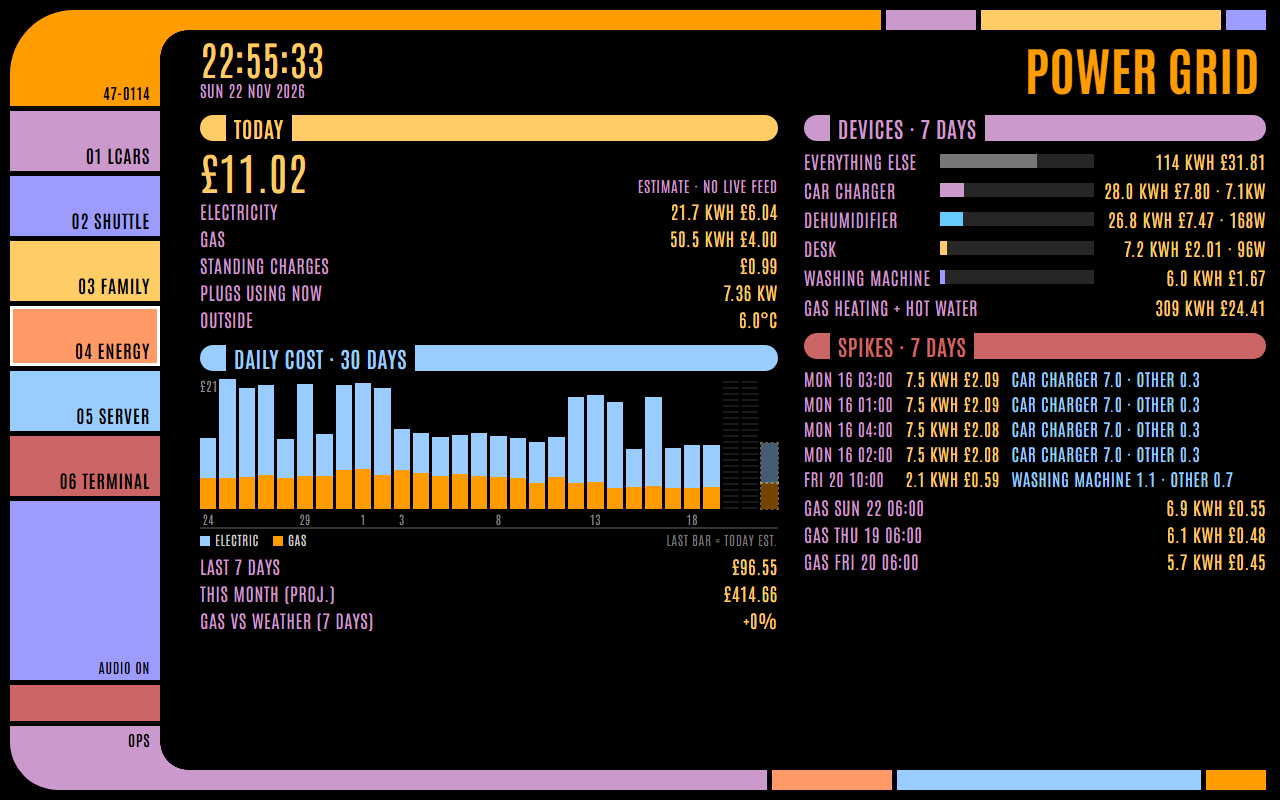
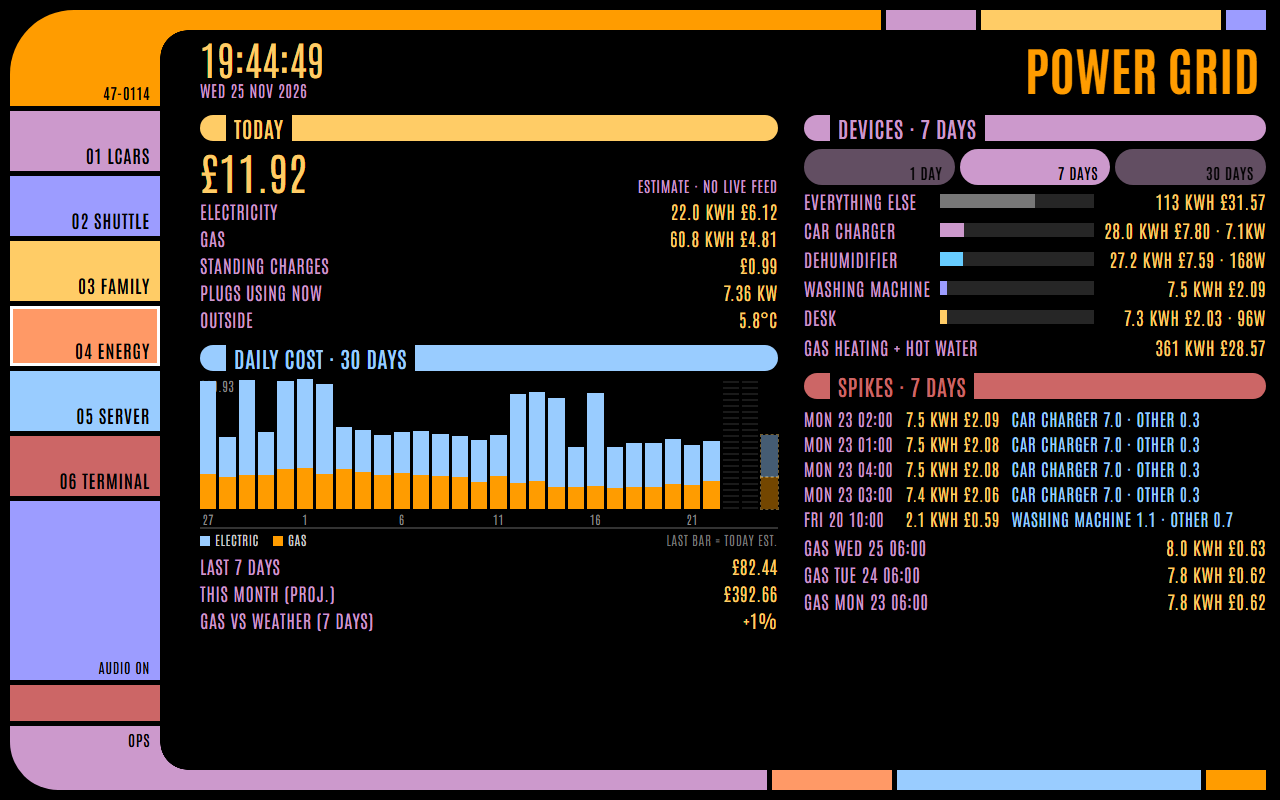
LCARS demo: devices breakdown over 1, 7 or 30 days

diff --git a/lcars/tablet-panels.js b/lcars/tablet-panels.js
@@ -72,7 +72,8 @@ function tpSave(key, on) {
 // Electricity "today" = Home Mini live total when it reports, otherwise the typical hourly
 // profile (last 14 days, without lumpy loads such as the car) plus what the lumpy plugs
 // actually used today. Gas "today" = a straight-line fit of daily gas against outdoor temperature.
-function tpEnergyModel(cfg, day, hour, states, now) {
+// devDays: window for the Devices breakdown (1, 7 or 30 days, default 7).
+function tpEnergyModel(cfg, day, hour, states, now, devDays) {
   var num = function (id) { var s = id && states[id]; var v = s ? parseFloat(s.state) : NaN; return isNaN(v) ? null : v; };
   var ms = function (x) { return typeof x.start === 'number' ? x.start : Date.parse(x.start); };
   var dkey = function (t) { var d = new Date(t); return d.getFullYear() + '-' + (d.getMonth() + 1) + '-' + d.getDate(); };
@@ -115,14 +116,25 @@ function tpEnergyModel(cfg, day, hour, states, now) {
     return { name: d.name, color: d.color, lumpy: !!d.lumpy, ser: ser, nowW: p == null ? null : p * (d.kw ? 1000 : 1) };
   });
   var weekStart = now.getTime() - 7 * 864e5, typStart = now.getTime() - 14 * 864e5;
+  devDays = devDays || 7;
+  var devStart = now.getTime() - devDays * 864e5;
 
   var houseWeek = 0, houseHours = [];
   Object.keys(houseE).forEach(function (t) { if (+t >= weekStart) { houseWeek += houseE[t]; houseHours.push(+t); } });
+
+  // Devices over the chosen window. The plugs are current; Octopus (house total, gas) runs a day
+  // or more behind, so "Everything else" only counts hours that Octopus has reported.
+  var houseDev = 0, houseDevHours = 0, houseLast = null;
+  Object.keys(houseE).forEach(function (t) {
+    if (+t < devStart) return;
+    houseDev += houseE[t]; houseDevHours++;
+    if (houseLast == null || +t > houseLast) houseLast = +t;
+  });
   var metered = 0;
   var devices = devs.map(function (d) {
     var k = 0, peak = null, inHouse = 0;
     Object.keys(d.ser).forEach(function (t) {
-      if (+t < weekStart) return;
+      if (+t < devStart) return;
       k += d.ser[t];
       if (houseE[t] != null) inHouse += d.ser[t];
       if (!peak || d.ser[t] > peak.kwh) peak = { at: +t, kwh: d.ser[t] };
@@ -130,9 +142,18 @@ function tpEnergyModel(cfg, day, hour, states, now) {
     metered += inHouse;
     return { name: d.name, color: d.color, kwh: k, cost: k * rateE, peak: peak, nowW: d.nowW };
   });
-  devices.push({ name: 'Everything else', color: '#777', kwh: Math.max(0, houseWeek - metered), cost: Math.max(0, houseWeek - metered) * rateE, nowW: null });
-  devices.sort(function (a, b) { return b.kwh - a.kwh; });
-  var gasWeek = 0; Object.keys(houseG).forEach(function (t) { if (+t >= weekStart) gasWeek += houseG[t]; });
+  // Too little of the window reported (typical for the 24-hour view): don't show a misleading figure.
+  var houseKnown = houseDevHours >= devDays * 12;
+  devices.push({ name: 'Everything else', color: '#777', rest: true, unknown: !houseKnown,
+    kwh: houseKnown ? Math.max(0, houseDev - metered) : null, cost: houseKnown ? Math.max(0, houseDev - metered) * rateE : null, nowW: null });
+  devices.sort(function (a, b) { return (b.kwh || 0) - (a.kwh || 0); });
+  var gasDev = 0, gasDevHours = 0, gasLast = null;
+  Object.keys(houseG).forEach(function (t) {
+    if (+t < devStart) return;
+    gasDev += houseG[t]; gasDevHours++;
+    if (gasLast == null || +t > gasLast) gasLast = +t;
+  });
+  var devTotal = 0; devices.forEach(function (d) { devTotal += d.kwh || 0; });
 
   // Spikes: whole-house hours well above the usual hour, split by metered device.
   var vals = houseHours.map(function (t) { return houseE[t]; }).sort(function (a, b) { return a - b; });
@@ -203,7 +224,9 @@ function tpEnergyModel(cfg, day, hour, states, now) {
   return {
     today: { live: liveEK != null || liveGK != null, elecKwh: elecKwh, elecCost: elecCost, gasKwh: gasKwh, gasCost: gasCost, standing: standing, total: total },
     daily: daily, week: last7.length ? week : null, monthProj: monthProj, gasVs: gasVs,
-    devices: devices, houseWeek: houseWeek, gasWeek: gasWeek, gasWeekCost: gasWeek * rateG,
+    devices: devices, devDays: devDays, devTotal: devTotal, houseWeek: houseWeek,
+    houseLast: houseLast, houseBehind: houseLast == null || now.getTime() - houseLast > 3 * 36e5,
+    gasDev: gasDevHours >= devDays * 12 ? gasDev : null, gasDevCost: gasDevHours >= devDays * 12 ? gasDev * rateG : null, gasLast: gasLast,
     spikes: spikes, gasSpikes: gasSpikes, nowW: demand != null ? demand : meteredNow, nowLive: demand != null,
     tempNow: tempNow, fit: { a: fitA, b: fitB, n: pts.length }, rateE: rateE, rateG: rateG,
   };
@@ -735,6 +758,7 @@ button:active { filter:brightness(1.35); }
 .dep .b:first-child { border-radius:20px 0 0 20px; } .dep .b:last-child { border-radius:0 20px 20px 0; }
 .carpg { grid-template-columns:1fr 1fr; }
 .kv .v.hi { color:#99ff99; }
+.kv .v.dim, .bars .v.dim { color:#888; }
 .bars { display:grid; grid-template-columns:auto 1fr auto; gap:5px 10px; align-items:center; font-size:18px; margin:4px 0 6px; }
 .bars .k { color:#cc99cc; white-space:nowrap; } .bars .v { color:#ffcc66; text-align:right; white-space:nowrap; font-variant-numeric:tabular-nums; }
 .mbar { display:block; height:14px; background:#262626; position:relative; }
@@ -912,6 +936,15 @@ class LcarsPanelCard extends TabletPanelBase {
 
   _ui(what) {
     if (what.indexOf('car:') === 0) { this._carAction(what.split(':')[1], what.split(':')[2]); return; }
+    if (what.indexOf('en:days:') === 0) {
+      var nd = +what.split(':')[2];
+      if ([1, 7, 30].indexOf(nd) < 0 || nd === this._enDays()) return;
+      this._enDaysV = nd;
+      try { localStorage.setItem('tp-en-days', String(nd)); } catch (e) { /* no storage */ }
+      if (this._audioOn) tpAudio.seq(LCARS_SFX.tap, 'triangle', 0.2);
+      this._render();
+      return;
+    }
     if (what.indexOf('fam:') === 0) {
       var fp = this._famPeople()[+what.split(':')[2]];
       if (!fp) return;
@@ -1181,6 +1214,16 @@ class LcarsPanelCard extends TabletPanelBase {
     return ids.filter(Boolean);
   }
 
+  // Devices window in days (1, 7 or 30), remembered per tablet.
+  _enDays() {
+    if (!this._enDaysV) {
+      var v = 7;
+      try { v = +localStorage.getItem('tp-en-days') || 7; } catch (e) { /* no storage */ }
+      this._enDaysV = [1, 7, 30].indexOf(v) >= 0 ? v : 7;
+    }
+    return this._enDaysV;
+  }
+
   _fetchEnergy() {
     var e = this._config.energy, self = this;
     if (!e || this._enBusy || !this._hass || !this._hass.callWS) return;
@@ -1192,7 +1235,7 @@ class LcarsPanelCard extends TabletPanelBase {
       return self._hass.callWS({ type: 'recorder/statistics_during_period', start_time: new Date(now - days * 864e5).toISOString(),
         statistic_ids: ids, period: period, types: ['change', 'mean'] });
     };
-    Promise.all([q(dayIds, 'day', 62), q(hourIds, 'hour', 15)])
+    Promise.all([q(dayIds, 'day', 62), q(hourIds, 'hour', 31)])
       .then(function (r) { self._en = { day: r[0] || {}, hour: r[1] || {}, at: Date.now() }; })
       .catch(function () { self._en = { day: (self._en || {}).day || {}, hour: (self._en || {}).hour || {}, at: Date.now(), err: true }; })
       .then(function () { self._enBusy = false; if (self._config.page === 'energy') self._render(); });
@@ -1205,7 +1248,7 @@ class LcarsPanelCard extends TabletPanelBase {
     }
     var states = {};
     this._energyIds().forEach(function (id) { if (self._st(id)) states[id] = self._st(id); });
-    var m = tpEnergyModel(e, this._en.day, this._en.hour, states, new Date());
+    var m = tpEnergyModel(e, this._en.day, this._en.hour, states, new Date(), this._enDays());
     var gbp = function (v) { return v == null || isNaN(v) ? '--' : '£' + v.toFixed(2); };
     var kwh = function (v) { return v == null ? '--' : (v >= 100 ? Math.round(v) : v.toFixed(1)) + ' KWH'; };
     var kv = function (rows) {
@@ -1242,14 +1285,22 @@ class LcarsPanelCard extends TabletPanelBase {
       kv([['Last 7 days', gbp(m.week)], ['This month (proj.)', gbp(m.monthProj)],
         ['Gas vs weather (7 days)', m.gasVs == null ? '--' : (m.gasVs > 0 ? '+' : '') + Math.round(m.gasVs) + '%', m.gasVs == null ? '' : m.gasVs > 5 ? 'warn' : m.gasVs < -5 ? 'hi' : '']]);
 
-    // Devices
-    var dev = '<div class="bars">' + m.devices.map(function (d) {
-      var pct = m.houseWeek ? d.kwh / m.houseWeek * 100 : 0;
+    // Devices, over 1, 7 or 30 days (chips switch it; the choice is remembered on this tablet).
+    var span = m.devDays === 1 ? 'Last 24 hours' : 'Last ' + m.devDays + ' days';
+    var dchips = '<div class="chips">' + [1, 7, 30].map(function (n) {
+      return '<button class="b' + (n === m.devDays ? '' : ' off') + '" data-ui="en:days:' + n + '" style="background:' + LC[1] + '">' +
+        '<span class="l">' + n + (n === 1 ? ' day' : ' days') + '</span></button>';
+    }).join('') + '</div>';
+    var dev = dchips + '<div class="bars">' + m.devices.map(function (d) {
+      var pct = m.devTotal && d.kwh != null ? d.kwh / m.devTotal * 100 : 0;
+      var val = d.unknown ? 'AWAITING OCTOPUS' : kwh(d.kwh) + ' ' + gbp(d.cost);
       return '<span class="k">' + esc(d.name) + '</span>' +
         '<span class="mbar"><i style="width:' + Math.min(100, pct) + '%;background:' + (d.color || EC) + '"></i></span>' +
-        '<span class="v">' + kwh(d.kwh) + ' ' + gbp(d.cost) + (d.nowW != null && d.nowW >= 5 ? ' · ' + (d.nowW >= 1000 ? (d.nowW / 1000).toFixed(1) + 'KW' : Math.round(d.nowW) + 'W') : '') + '</span>';
-    }).join('') + '</div>' +
-      kv([['Gas heating + hot water', kwh(m.gasWeek) + ' ' + gbp(m.gasWeekCost)]]);
+        '<span class="v' + (d.unknown ? ' dim' : '') + '">' + val + (d.nowW != null && d.nowW >= 5 ? ' · ' + (d.nowW >= 1000 ? (d.nowW / 1000).toFixed(1) + 'KW' : Math.round(d.nowW) + 'W') : '') + '</span>';
+    }).join('') + '</div>';
+    var drows = [['Gas heating + hot water', m.gasDev == null ? 'AWAITING OCTOPUS' : kwh(m.gasDev) + ' ' + gbp(m.gasDevCost), m.gasDev == null ? 'dim' : '']];
+    if (m.houseBehind && m.houseLast != null) drows.push(['House total up to', when(m.houseLast + 36e5), 'dim']);
+    dev += kv(drows);
 
     // Spikes
     var spikes = m.spikes.length ? '<div class="spk">' + m.spikes.map(function (s) {
@@ -1261,7 +1312,7 @@ class LcarsPanelCard extends TabletPanelBase {
     return [
       { title: 'Today', html: today, color: LC[3] },
       { title: 'Daily cost · 30 days', html: chart, color: LC[5] },
-      { title: 'Devices · 7 days', html: dev, color: LC[1], column: 2 },
+      { title: 'Devices · ' + span.replace('Last ', '').toLowerCase(), html: dev, color: LC[1], column: 2 },
       { title: 'Spikes · 7 days', html: spikes + gasSp + (this._en.err ? kv([['Note', 'HISTORY MAY BE STALE', 'warn']]) : ''), color: LC[6], column: 2 },
     ];
   }

diff --git a/posts/lcars-dashboard.html b/posts/lcars-dashboard.html
@@ -27,7 +27,7 @@
   <li>Main: lights and scenes, a kitchen timer, room temperatures, heating boosts and the robot vacuum</li>
   <li>Car: charge level, charge limit, defrost, departure times, tyres and locks, and how much home charging has cost since payday</li>
   <li>Family: a map showing where everyone is, how far from home and whether they're heading back</li>
-  <li>Energy: today's cost (estimated, because the meter data arrives a day or two late), 30 days of electricity and gas, which devices use the most, and the biggest spikes</li>
+  <li>Energy: today's cost (estimated, because the meter data arrives a day or two late), 30 days of electricity and gas, which devices use the most over the last day, week or month, and the biggest spikes</li>
   <li>Server: CPU, memory, disks and Docker containers on the home server</li>
   <li>Terminal: the same controls in a green-screen terminal style</li>
 </ul>

diff --git a/drafts/lcars-dashboard.md b/drafts/lcars-dashboard.md
@@ -22,7 +22,7 @@ The buttons down the left side switch between pages.
 - Main: lights and scenes, a kitchen timer, room temperatures, heating boosts and the robot vacuum
 - Car: charge level, charge limit, defrost, departure times, tyres and locks, and how much home charging has cost since payday
 - Family: a map showing where everyone is, how far from home and whether they're heading back
-- Energy: today's cost (estimated, because the meter data arrives a day or two late), 30 days of electricity and gas, which devices use the most, and the biggest spikes
+- Energy: today's cost (estimated, because the meter data arrives a day or two late), 30 days of electricity and gas, which devices use the most over the last day, week or month, and the biggest spikes
 - Server: CPU, memory, disks and Docker containers on the home server
 - Terminal: the same controls in a green-screen terminal style
 
